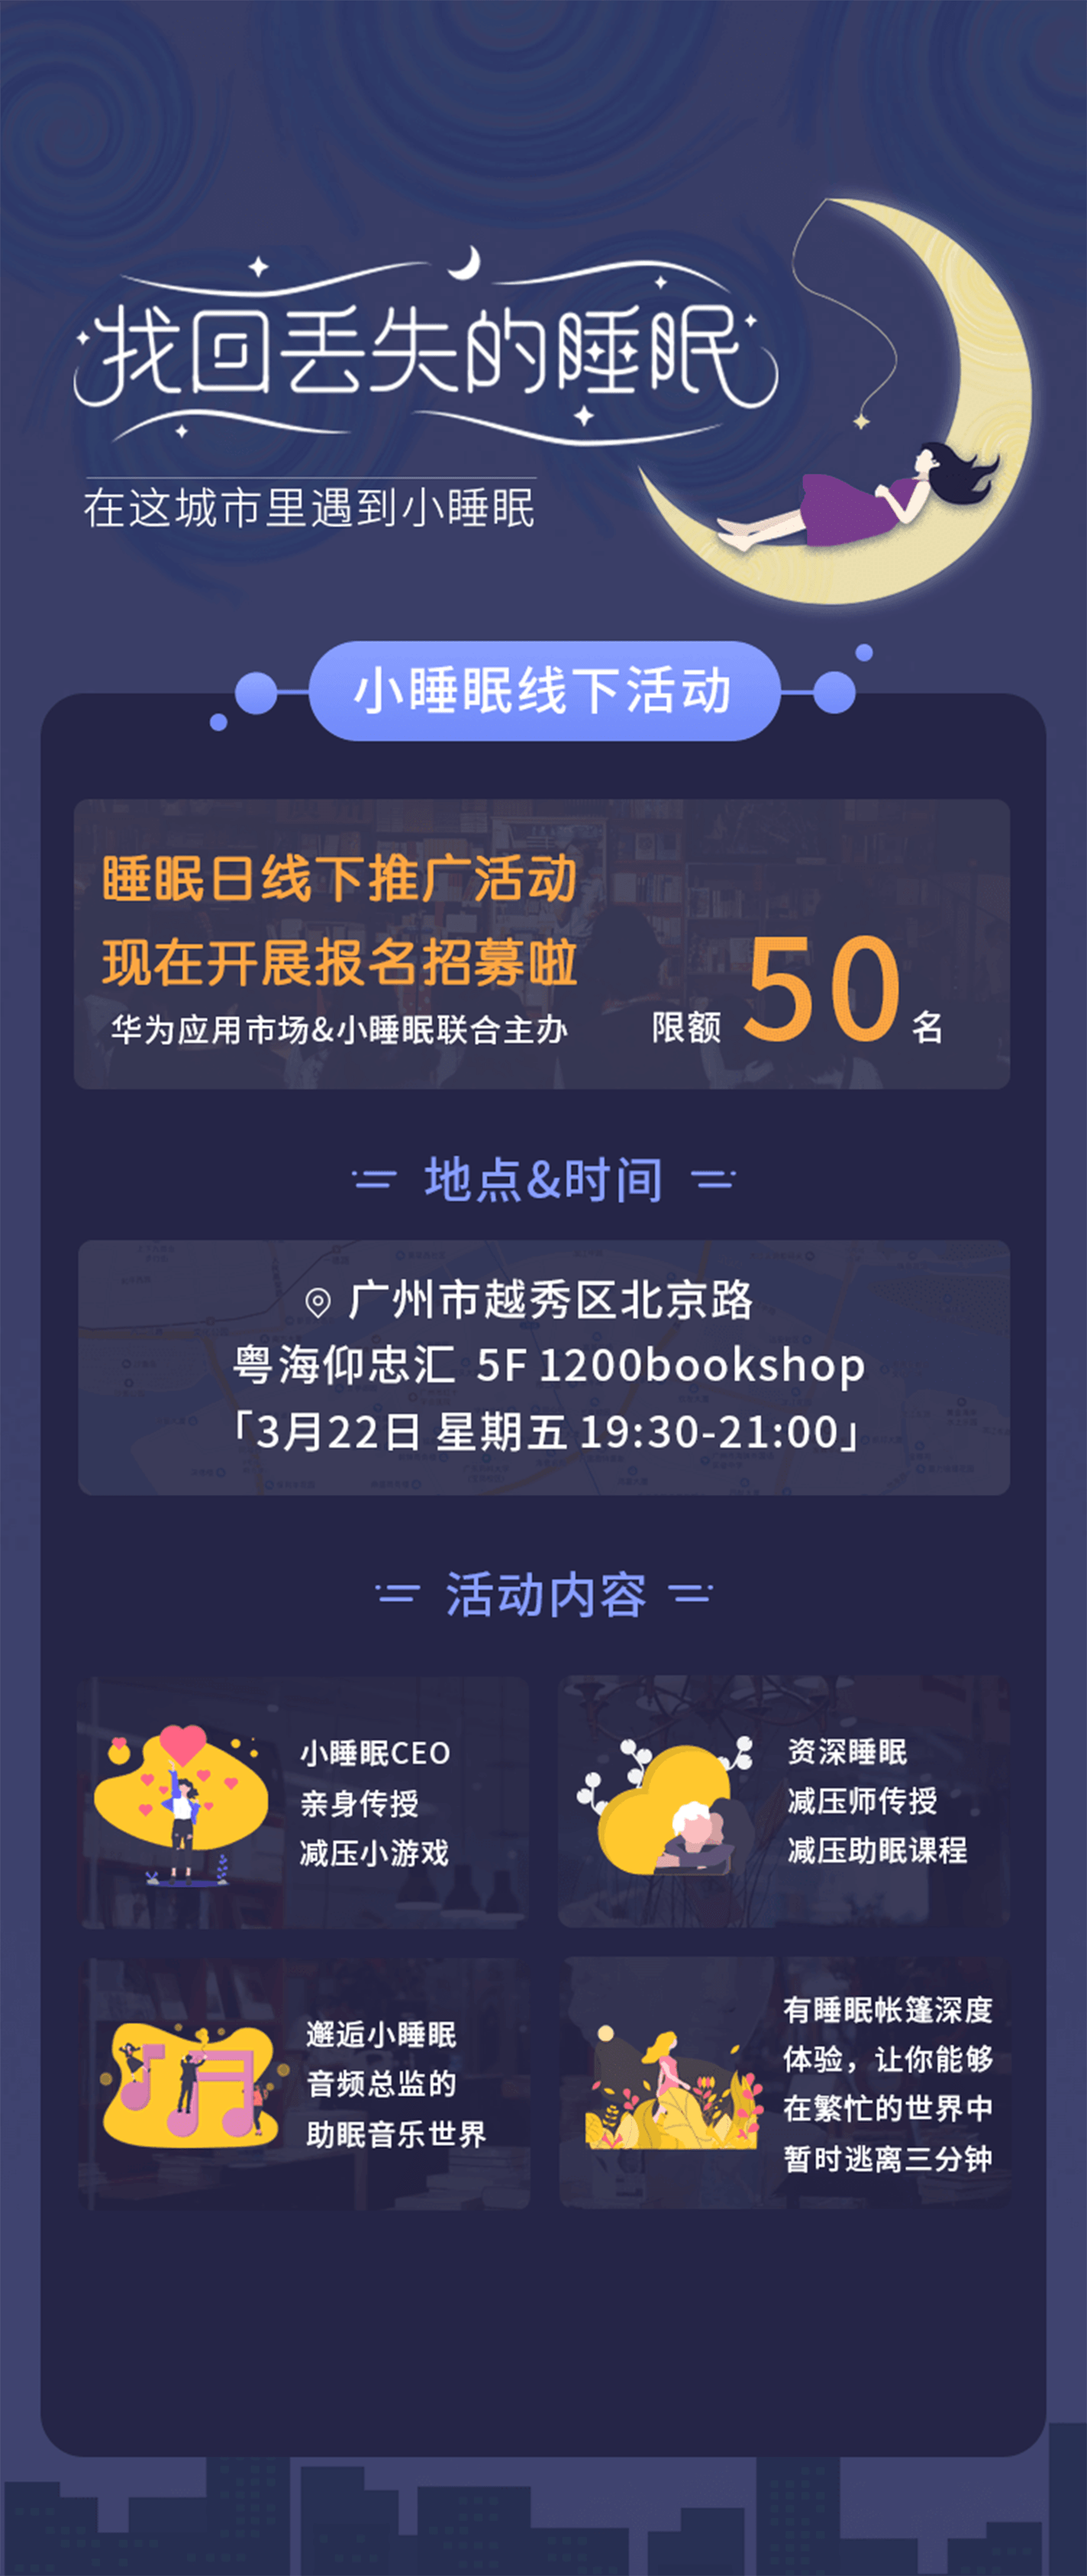
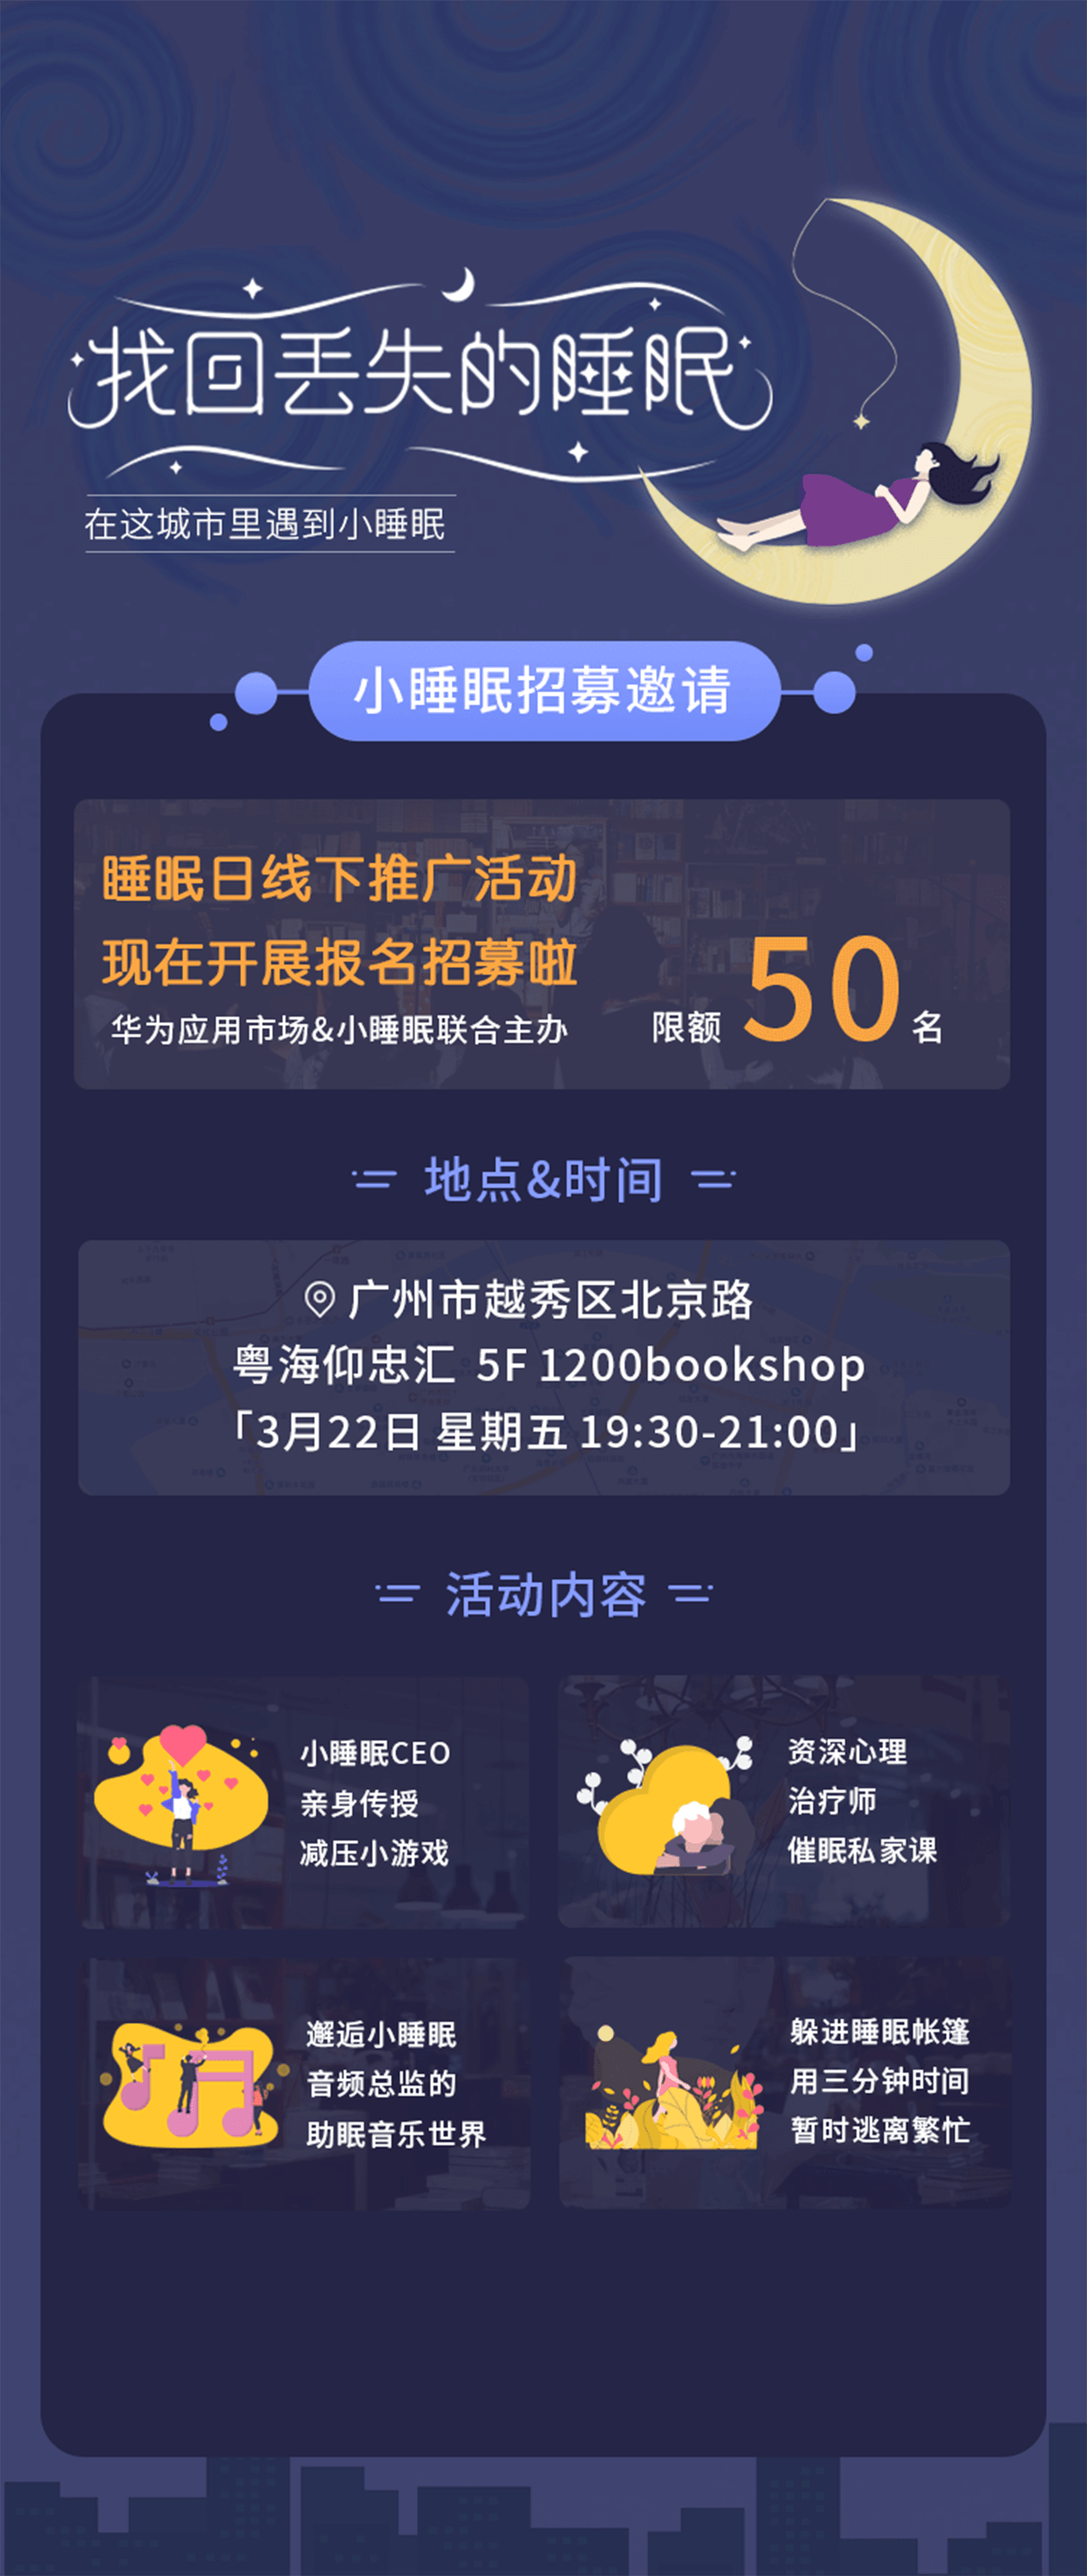
csshifu

diff --git a/huawei-join/public/index.html b/huawei-join/public/index.html
@@ -23,13 +23,16 @@
       }
     </script>
 
-    <title></title>
+    <title>华为应用市场&小睡眠 招募邀请</title>
   </head>
   <body>
     <noscript>
       <strong>We're sorry but pwa-common doesn't work properly without JavaScript enabled. Please enable it to continue.</strong>
     </noscript>
     <div id="app"></div>
+    <input id="share" style="visibility: hidden;position: absolute;display:none" type="hidden" name="xinchao_share" value="">
+    <input id="share2" style="visibility: hidden;position: absolute;display:none" type="hidden" name="ShareAppMessage" value="">
+    <input id="share3" style="visibility: hidden;position: absolute;display:none" type="hidden" name="ShareTimeline" value="">
     <!-- built files will be auto injected -->
 
    <!-- <script src="https://cdnjs.cloudflare.com/ajax/libs/vConsole/3.2.0/vconsole.min.js"></script>

diff --git a/huawei-join/src/views/Home.vue b/huawei-join/src/views/Home.vue
@@ -48,6 +48,7 @@
 <script>
 // @ is an alias to /src
 import axios from 'axios'
+import Share from '@/js/shareAndGetName'
 
 export default {
   name: 'home',
@@ -113,6 +114,11 @@ export default {
   components: {
   },
   methods: {
+    test () {
+      const share = new Share({ pic: 'http://wx2.sinaimg.cn/mw690/006Zdy2vgy1fxj17qoz6gj30ds0eawer.jpg', url: window.location.href.split('#')[0], title: '华为应用市场&小睡眠 招募邀请', desc: '' })
+      share.appShare()
+      share.rawWeiXinShare(this.url)
+    },
     checkNull () {
       let canThough = true
       for (let i in this.user) {
@@ -175,6 +181,7 @@ export default {
     }
   },
   mounted () {
+    this.test()
     // this.$router.push('./success')
   }
 }

diff --git a/huawei-join/src/views/Invite.vue b/huawei-join/src/views/Invite.vue
@@ -30,8 +30,8 @@ export default {
       width: px2html(71px);
       position: fixed;
       right: 0;
-      top: 50%;
-      transform: translateY(50%);
+      top: 90%;
+      transform: translateY(-100%);
     }
     .to-detail {
       position: absolute;
